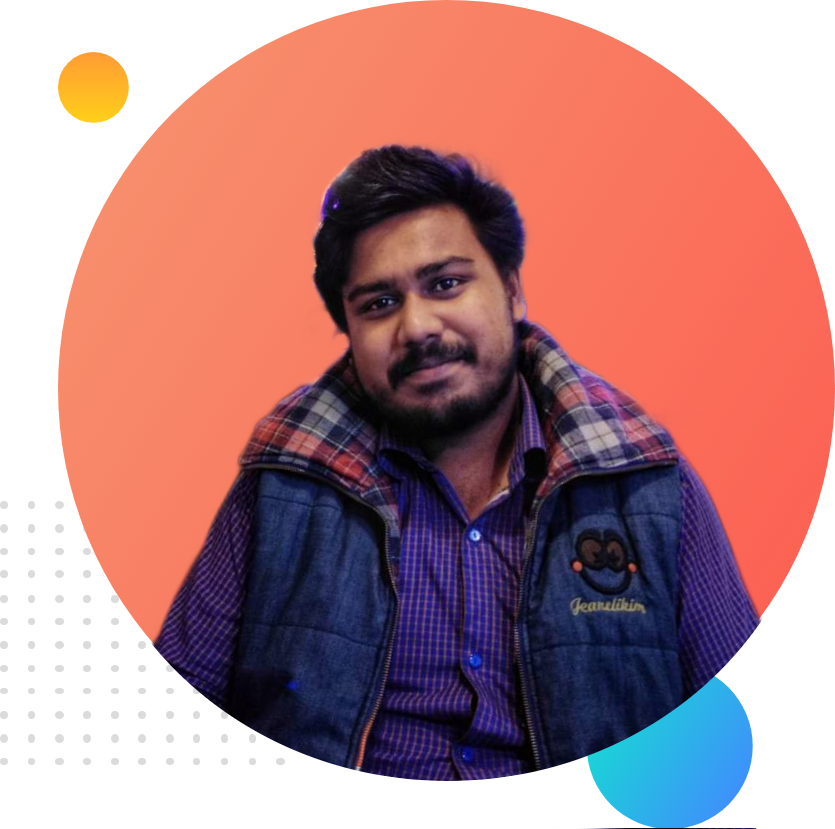
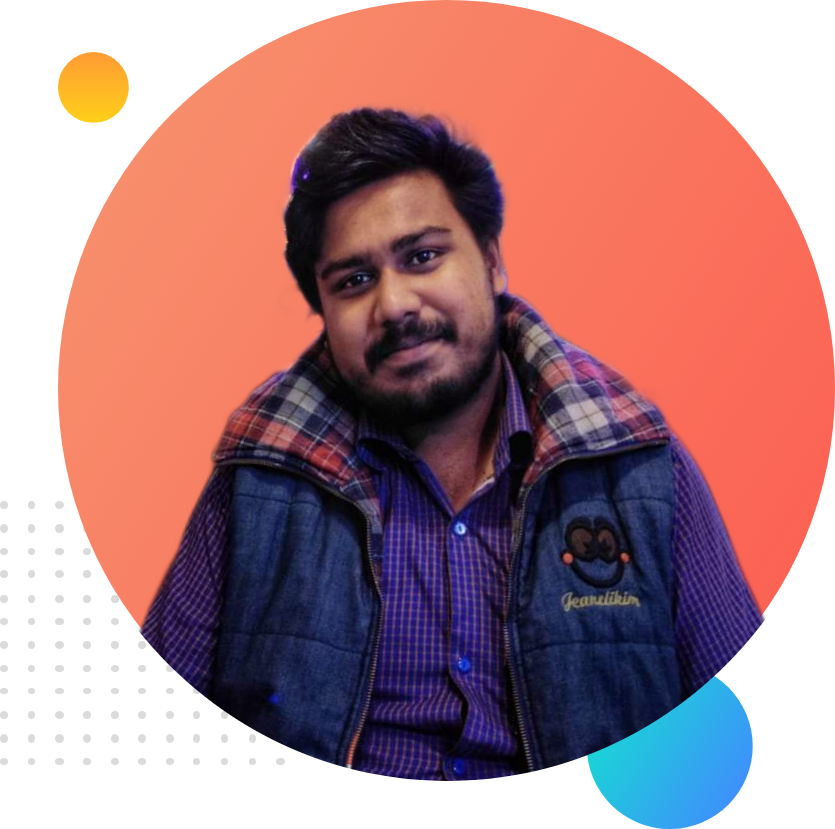
90

diff --git a/index.html b/index.html
@@ -8,13 +8,13 @@
     <link rel="stylesheet" href="style.css">
     <link rel="preconnect" href="https://fonts.googleapis.com">
     <link rel="preconnect" href="https://fonts.gstatic.com" crossorigin>
-    <link href="https://fonts.googleapis.com/css2?family=Poppins:wght@300&display=swap" rel="stylesheet">
+    <link href="https://fonts.googleapis.com/css2?family=Poppins&display=swap" rel="stylesheet">
 </head>
 <body>
     
     <section class="top-banner">
         <div class="half-width">
-            <h1>Welcome To</h1>
+            <h1>Welcome To,</h1>
             <h1><span class="name-highlight">Rahat's</span> Website</h1>
             <h3>World Class Professional Web Developer</h3>
             <p class="first-text">In this age of information technology, I am skilled in JavaScript (React), Express, MongoDB. Strong collaboration skills in application development, problem-solving, and analytics. I have solved about 2000  problems in various online judge.</p>
@@ -24,6 +24,29 @@
             <img src="images/profile.png" alt="Rahat Khan Pathan">
         </div>
     </section>
-
+    <section class="mid-banner">
+        <div class="half-width">
+            <img src="images/profile3.png" alt="Rahat Khan Pathan">
+        </div>
+        <div class="half-width">
+            <h2>Dream Big</h2>
+            <h3>Become a web developer</h3>
+            <p class="first-text">I already learned the basic HTML and CSS. I can build any simple website. I can even teach my grandma how to make simple website. My goal is to build 3 websites and learn advanced topics.</p>
+            <a class="hire-button" href="index.html">DOWNLOAD RESUME</a>
+        </div>
+    </section>
+    <section class="last-banner">
+        <h2>Experiences</h2>
+        <div class="half-width shadow" id="left-box">
+            <h2>Full Stack Web Developer</h2>
+            <h3>2021-Present | Pro Level Developer</h3>
+            <p>I am the master of HTML, CSS and Javascript. I know everything needed to make a website function, efficient. I didn't stop with the web. I went beyond with most popular Javascript framework called Vue JS. I even know the deployment, server and security. I will give you 100% web solution.</p>
+        </div>
+        <div class="half-width shadow" id="right-box">
+            <h2>Baby Web Developer</h2>
+            <h3>2020-2021 | Programming Hero Learner</h3>
+            <p>They didn't offer me a job. But I made myself as a remove web developer. I made their website and showed it to them. They liked it. And uploaded the content. It was fun working at Programming Hero.</p>
+        </div>
+    </section>
 </body>
 </html>

diff --git a/style.css b/style.css
@@ -6,8 +6,26 @@ body
 h1
 {
     font-size: 50px;
+    font-weight: 600;
+}
+p
+{
+    color: dimgray;
+}
+section
+{
+    height: 500px;
+    padding-bottom: 150px;
 }
 .name-highlight
+{
+    color: orange;
+}
+h2
+{
+    font-size: 40px;
+}
+h3
 {
     color: orange;
 }
@@ -20,15 +38,19 @@ h1
 }
 .half-width img
 {
-    width: 80%;
+    width: 100%;
     padding-top: 2%;
 }
 .top-banner
 {
-    height: 500px;
     background: url("images/top-banner.png");
     background-repeat: no-repeat;
-    border: 1px solid red;
+}
+.mid-banner
+{
+    background: url("images/dream-bg.png");
+    background-repeat: no-repeat;
+    background-position: right;
 }
 .first-text
 {
@@ -38,9 +60,32 @@ h1
 .hire-button
 {
     text-decoration: none;
-    padding: 10px 20px;
+    padding: 10px 40px;
     background-image: linear-gradient(45deg, lightsalmon,tomato);
     border-radius: 10px;
     font-weight: 700;   
     color: white;
+}
+.shadow
+{
+    box-shadow: 10px 10px 40px gray;
+    height: 80%;
+}
+.last-banner
+{
+    background: url("images/exp-bg.png");
+    background-repeat: no-repeat;
+    background-position: left;
+}
+#left-box
+{
+    border-left: 7px solid;
+    border-image: linear-gradient(180deg, lightsalmon,tomato);
+    border-image-slice: 1;
+}
+#right-box
+{
+    border-left: 7px solid;
+    border-image: linear-gradient(180deg, blue,cyan);
+    border-image-slice: 1;
 }
